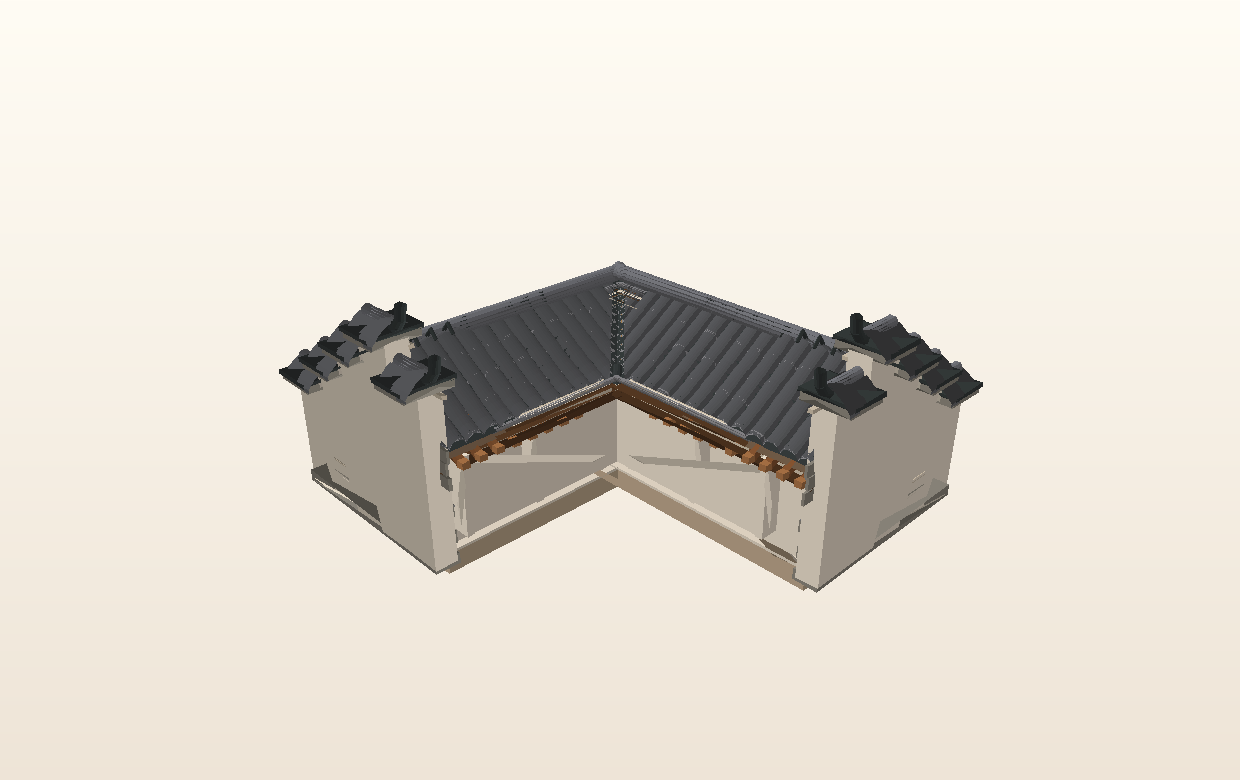
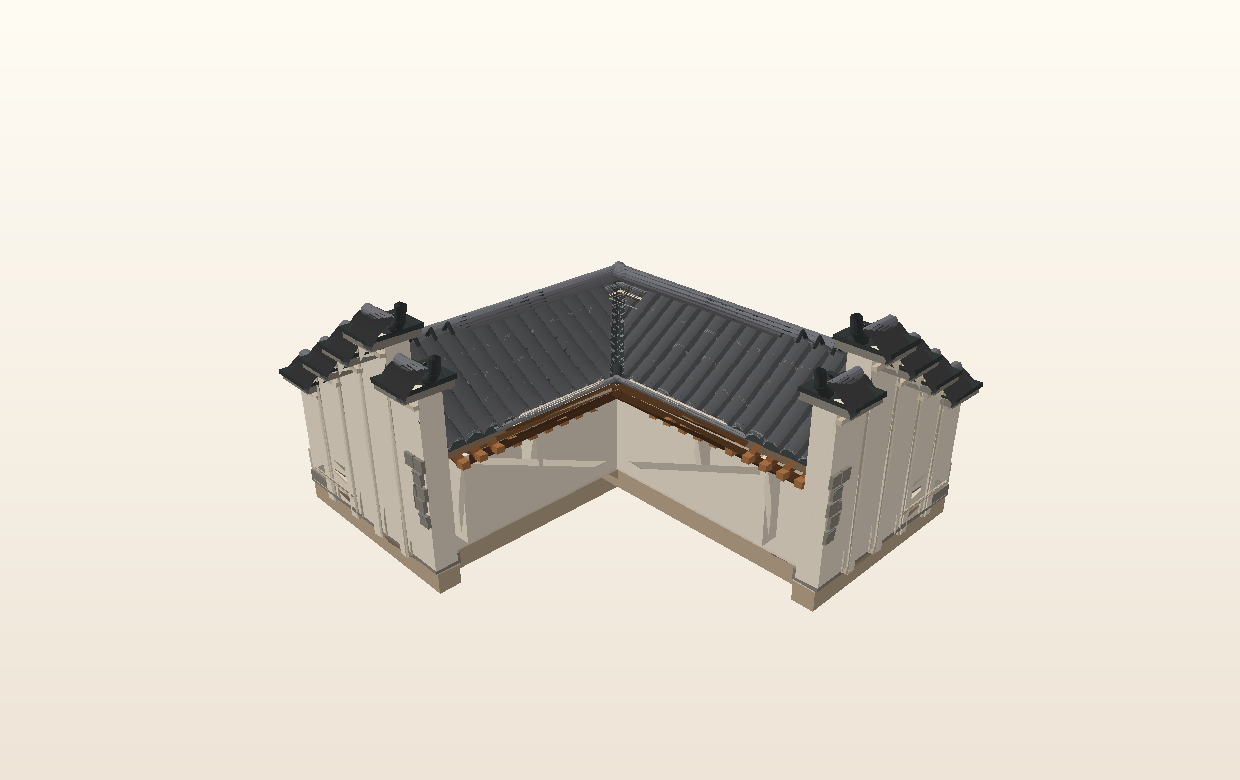
fix(ew-ux/g203): mirror exterior gables and align perimeter wall + full-bearing foundations

diff --git a/g1-m2/l-valley/src/l-valley.js b/g1-m2/l-valley/src/l-valley.js
@@ -16,6 +16,15 @@ export const L_VALLEY_CONTRACT = 'ew/ux/l-valley-v0.1';
 const ROOF_MAT = {under:'slateDark',slate:'slate',edge:'slateEdge',light:'slateLight',wood:'wood',woodDark:'woodDark'};
 const WALL=MODULES.find(m=>m.id==='MH-01');
 const EPS=1e-8;
+// G1-M1's stepped gable has asymmetric surface decoration at local +Z.
+// For either house end, local +Z MUST face away from the occupied room.
+export const GABLE_ASSEMBLY_CONTRACT='ew/ux/gable-facing-and-bearing-v0.3';
+const GABLE_WIDTH=3.6;
+const GABLE_DEPTH=.38;
+const GABLE_PARAMS=Object.freeze({width:GABLE_WIDTH,depth:GABLE_DEPTH,wallHeight:2.30,stepRise:.48,steps:4});
+const PERIMETER_WALL_TOP=1.63;
+const SUPPORT_PIER_TOP=1.57;
+const CORNER_PIER_TOP=1.67;
 // One architectural datum for slab finish and imported gable base seats.
 const FLOOR_SURFACE={centerY:.01,thickness:.03};
 const FINISHED_FLOOR_Y=FLOOR_SURFACE.centerY+FLOOR_SURFACE.thickness/2;
@@ -201,22 +210,50 @@ function addEaveConstruction(out,p){
  }
  return {segments:segments.map(e=>({...e,start:at(e.arm,e.a,e.side*p.halfSpan,0),end:at(e.arm,e.b,e.side*p.halfSpan,0)}))};
 }
-function remeshPart(part,fn,tag){const out=new Mesh(`${tag}/${part.id}`,part.material);for(let i=0;i<part.positions.length;i+=9)out.tri(fn(part.positions.slice(i,i+3)),fn(part.positions.slice(i+3,i+6)),fn(part.positions.slice(i+6,i+9)));return out;}
-function addGables(out,p){
- const params={width:3.6,depth:.38,wallHeight:2.30,stepRise:.48,steps:4};
- const g=buildModule(WALL,params); const depth=.38;
- // G1-M1 gables are independent modules with a local baseY (0.28 m).
- // Register that semantic wallSeat to the L-house's *finished floor* datum;
- // do not reinterpret module wallHeight, which would alter the accepted profile.
- const localSeatY=g.metadata.anchors.wallSeat.y;
- const seatOffsetY=FINISHED_FLOOR_Y-localSeatY;
- // Both gable inner planes coincide with their respective roof ends.
- for(const [arm,end] of [['main',p.mainLength],['wing',p.wingLength]]){
-  const transformed=g.parts.map(part=>remeshPart(part,q=>arm==='main'?[end+depth/2-q[2],q[1]+seatOffsetY,q[0]]:[q[0],q[1]+seatOffsetY,end+depth/2-q[2]],`gable-${arm}`));
-  out.parts.push(...transformed);
+function remeshPart(part,fn,tag,mirror=false){
+ const out=new Mesh(`${tag}/${part.id}`,part.material);
+ for(let i=0;i<part.positions.length;i+=9){
+  const a=fn(part.positions.slice(i,i+3)),b=fn(part.positions.slice(i+3,i+6)),c=fn(part.positions.slice(i+6,i+9));
+  // Reflections have negative determinant: swap winding to preserve outward normals.
+  out.tri(a,mirror?c:b,mirror?b:c);
  }
- return {wallDepth:depth,localSeatY,finishedFloorY:FINISHED_FLOOR_Y,seatOffsetY,
-  wallCapSpans:g.metadata.anchors.capSpans.map(span=>({...span,level:span.level+seatOffsetY}))};
+ return out;
+}
+/** Position one G1-M1 gable at a physical end-face of a RoofGroup.
+ * The roof terminal plane and gable INNER face coincide (at `end`).
+ * Local +Z carries the asymmetric exposed masonry, always facing the outside.
+ * `direction` is the outward signed direction on the selected world axis.
+ */
+export function buildGablePlacement(arm,end,direction=1){
+ if(arm!=='main'&&arm!=='wing')throw new RangeError('invalid_gable_axis');
+ if(direction!==1&&direction!==-1)throw new RangeError('invalid_gable_direction');
+ if(!Number.isFinite(end))throw new RangeError('invalid_gable_end');
+ const g=buildModule(WALL,GABLE_PARAMS),localSeatY=g.metadata.anchors.wallSeat.y;
+ const seatOffsetY=FINISHED_FLOOR_Y-localSeatY;
+ const center=end+direction*GABLE_DEPTH/2;
+ const map=q=>arm==='main'?[center+direction*q[2],q[1]+seatOffsetY,q[0]]:
+  [q[0],q[1]+seatOffsetY,center+direction*q[2]];
+ // The main-arm axis maps local X to world Z, reversing parity for +X.
+ // The wing axis maps local X to world X, reversing parity for -Z.
+ const mirror=arm==='main'?direction===1:direction===-1;
+ const label=direction===1?'positive':'negative';
+ const parts=g.parts.map(part=>remeshPart(part,map,`gable-${arm}-${label}`,mirror));
+ const outward=arm==='main'?[direction,0,0]:[0,0,direction];
+ const innerFace=end,outerFace=end+direction*GABLE_DEPTH;
+ return {parts,metadata:{arm,direction,outward,innerFace,outerFace,
+  floorY:FINISHED_FLOOR_Y,localSeatY,seatOffsetY,wallDepth:GABLE_DEPTH,
+  width:GABLE_WIDTH,mirroredTransform:mirror,
+  decorationLocalFace:'positiveZ',decoratedWorldFace:outerFace,
+  wallCapSpans:g.metadata.anchors.capSpans.map(span=>({...span,level:span.level+seatOffsetY}))}};
+}
+function addGables(out,p){
+ const main=buildGablePlacement('main',p.mainLength,1);
+ const wing=buildGablePlacement('wing',p.wingLength,1);
+ out.parts.push(...main.parts,...wing.parts);
+ return {wallDepth:GABLE_DEPTH,localSeatY:main.metadata.localSeatY,
+  finishedFloorY:FINISHED_FLOOR_Y,seatOffsetY:main.metadata.seatOffsetY,
+  contract:GABLE_ASSEMBLY_CONTRACT,
+  placements:[main.metadata,wing.metadata],wallCapSpans:main.metadata.wallCapSpans};
 }
 function addShell(out,p){
  const s=p.halfSpan;
@@ -230,25 +267,44 @@ function addShell(out,p){
  stone.box(0,-.18,(p.wingLength+s)/2,2*s,.35,p.wingLength-s);
  top.box((p.mainLength-s)/2,FLOOR_SURFACE.centerY,0,p.mainLength+s,FLOOR_SURFACE.thickness,2*s);
  top.box(0,FLOOR_SURFACE.centerY,(p.wingLength+s)/2,2*s,FLOOR_SURFACE.thickness,p.wingLength-s);
+ // The independent gables are OUTSIDE the roof termination planes. Extend the
+ // same-height continuous stone footing under their FULL wall thickness/width.
+ // Otherwise equal Y coordinates alone leave the terminal masonry unsupported.
+ for(const [arm,end] of [['main',p.mainLength],['wing',p.wingLength]]){
+  const feet=out.part('platform',`gable-${arm}-bearing-foundation`);
+  const finish=out.part('platformTop',`gable-${arm}-bearing-finished-floor`);
+  if(arm==='main'){
+   feet.box(end+GABLE_DEPTH/2,-.18,0,GABLE_DEPTH,.35,GABLE_WIDTH+.10);
+   finish.box(end+GABLE_DEPTH/2,FLOOR_SURFACE.centerY,0,GABLE_DEPTH,FLOOR_SURFACE.thickness,GABLE_WIDTH+.10);
+  }else{
+   feet.box(0,-.18,end+GABLE_DEPTH/2,GABLE_WIDTH+.10,.35,GABLE_DEPTH);
+   finish.box(0,FLOOR_SURFACE.centerY,end+GABLE_DEPTH/2,GABLE_WIDTH+.10,FLOOR_SURFACE.thickness,GABLE_DEPTH);
+  }
+ }
  const lines=[
   ['main',-1,-s,p.mainLength],['main',1,s,p.mainLength],
   ['wing',-1,-s,p.wingLength],['wing',1,s,p.wingLength]
  ];
  for(const [arm,side,a,b] of lines){
   const center=(a+b)/2,extent=b-a,dd=side*(s-.16);
-  const world=at(arm,center,dd,.89);
-  const sy=1.48;
+  const wallHeight=PERIMETER_WALL_TOP-FINISHED_FLOOR_Y;
+  const wallCenter=(PERIMETER_WALL_TOP+FINISHED_FLOOR_Y)/2;
+  const world=at(arm,center,dd,wallCenter);
   if(arm==='main'){
-   plaster.box(world[0],world[1],world[2],extent,sy,.30);
+   plaster.box(world[0],world[1],world[2],extent,wallHeight,.30);
    trim.box(world[0],1.60,world[2],extent,.075,.34);
   }else{
-   plaster.box(world[0],world[1],world[2],.30,sy,extent);
+   plaster.box(world[0],world[1],world[2],.30,wallHeight,extent);
    trim.box(world[0],1.60,world[2],.34,.075,extent);
   }
-  for(let t=a+.35;t<b-.15;t+=1.40){const c=at(arm,t,dd,.86);if(arm==='main')supports.box(c[0],c[1],c[2],.125,1.42,.35);else supports.box(c[0],c[1],c[2],.35,1.42,.125);}
+  const supportHeight=SUPPORT_PIER_TOP-FINISHED_FLOOR_Y;
+  const supportCenter=(SUPPORT_PIER_TOP+FINISHED_FLOOR_Y)/2;
+  for(let t=a+.35;t<b-.15;t+=1.40){const c=at(arm,t,dd,supportCenter);
+   if(arm==='main')supports.box(c[0],c[1],c[2],.125,supportHeight,.35);
+   else supports.box(c[0],c[1],c[2],.35,supportHeight,.125);}
  }
  // Inner corner's shared supporting pier beneath the rainwater outlet.
- supports.box(s-.20,.92,s-.20,.38,1.50,.38);
+ supports.box(s-.20,(CORNER_PIER_TOP+FINISHED_FLOOR_Y)/2,s-.20,.38,CORNER_PIER_TOP-FINISHED_FLOOR_Y,.38);
 }
 export function checkCornerContract(p,parts,flash){
  const issues=[],s=p.halfSpan,diag=diagonalSeam(p);
@@ -290,12 +346,39 @@ export function checkCornerContract(p,parts,flash){
  const floorTop=floor?.bounds().max[1];
  if(!Number.isFinite(floorTop)||Math.abs(floorTop-FINISHED_FLOOR_Y)>EPS)issues.push('floor_datum_mismatch');
  for(const arm of ['main','wing']){
-  const wall=parts.find(x=>x.id.includes(`gable-${arm}/MH-01/wall-body/`));
-  const socle=parts.find(x=>x.id.includes(`gable-${arm}/MH-01/stone-socle/`));
+  const wall=parts.find(x=>x.id.includes(`gable-${arm}-positive/MH-01/wall-body/`));
+  const socle=parts.find(x=>x.id.includes(`gable-${arm}-positive/MH-01/stone-socle/`));
   if(!wall||!socle){issues.push('missing_gable_seat');continue;}
   const base=wall.bounds().min[1],stoneBounds=socle.bounds();
   if(Math.abs(base-floorTop)>EPS)issues.push('gable_floor_datum_mismatch');
   if(stoneBounds.min[1]>floorTop+EPS||stoneBounds.max[1]<floorTop-EPS)issues.push('gable_socle_not_seated');
+  // Verify actual geometry, not the declared gable metadata. The outward
+  // decorative masonry must be outside the connecting roof-end plane.
+  const masonry=parts.find(x=>x.id.includes(`gable-${arm}-positive/MH-01/exposed-masonry/`));
+  const cornice=parts.find(x=>x.id.includes(`gable-${arm}-positive/MH-01/plaster-trim/`));
+  const feet=parts.find(x=>x.id.includes(`/gable-${arm}-bearing-foundation/`));
+  const finish=parts.find(x=>x.id.includes(`/gable-${arm}-bearing-finished-floor/`));
+  const worldAxis=arm==='main'?0:2, end=arm==='main'?p.mainLength:p.wingLength;
+  if(!masonry||!cornice||!feet||!finish){issues.push('missing_gable_exterior_or_footing');continue;}
+  const outerCoord=wall.bounds().max[worldAxis];
+  if(Math.abs(outerCoord-(end+GABLE_DEPTH))>EPS)issues.push('gable_outer_plane_mismatch');
+  if(masonry.bounds().min[worldAxis]<outerCoord-.015)issues.push('decorated_exterior_faces_inward');
+  if(cornice.bounds().min[worldAxis]<outerCoord-.015)issues.push('outer_cornice_faces_inward');
+  // Require the *entire* cross-section of this end-gable to sit on a real
+  // footing (not just matching height with an out-of-footprint floor).
+  const b=finish.bounds(),f=feet.bounds(),spanAxis=worldAxis===0?2:0;
+  if(b.min[spanAxis]>-GABLE_WIDTH/2-EPS || b.max[spanAxis]<GABLE_WIDTH/2+EPS ||
+     f.min[spanAxis]>-GABLE_WIDTH/2-EPS || f.max[spanAxis]<GABLE_WIDTH/2+EPS ||
+     b.min[worldAxis]>end+EPS||b.max[worldAxis]<end+GABLE_DEPTH-EPS ||
+     f.min[worldAxis]>end+EPS||f.max[worldAxis]<end+GABLE_DEPTH-EPS ||
+     Math.abs(b.max[1]-floorTop)>EPS || Math.abs(f.min[1]+.355)>EPS)
+   issues.push('gable_footing_missing_or_unlevel');
+ }
+ // House perimeter plaster and load-bearing piers must touch exactly the
+ // same finished-floor surface; the previous .125 m lower wall gap is invalid.
+ for(const id of ['L-perimeter-plaster-walls','structural-piers']){
+  const shell=parts.find(x=>x.id.includes(`/${id}/`));
+  if(!shell||Math.abs(shell.bounds().min[1]-floorTop)>EPS)issues.push('house_wall_or_pier_floor_gap');
  }
  const normalDelta=Math.abs(roofSlope(roofParams(p),.0001));
  if(normalDelta<=0)issues.push('invalid_valley_cross_slope');

diff --git a/g1-m2/l-valley/tests/l-valley.test.js b/g1-m2/l-valley/tests/l-valley.test.js
@@ -86,8 +86,8 @@ for(const settings of [DEFAULT,{mainLength:7.1,wingLength:4.6}]){
   assert.ok(sep(g.metadata.gables.finishedFloorY,finish));
   assert.ok(sep(g.metadata.gables.seatOffsetY,-.255));
   for(const arm of ['main','wing']){
-   const wall=g.parts.find(p=>p.id.includes(`gable-${arm}/MH-01/wall-body/`));
-   const stone=g.parts.find(p=>p.id.includes(`gable-${arm}/MH-01/stone-socle/`));
+   const wall=g.parts.find(p=>p.id.includes(`gable-${arm}-positive/MH-01/wall-body/`));
+   const stone=g.parts.find(p=>p.id.includes(`gable-${arm}-positive/MH-01/stone-socle/`));
    assert.ok(wall&&stone);
    assert.ok(sep(wall.bounds().min[1],finish),`${arm} wall floating over finished floor`);
    const b=stone.bounds();assert.ok(b.min[1]<=finish&&b.max[1]>=finish);
@@ -95,10 +95,129 @@ for(const settings of [DEFAULT,{mainLength:7.1,wingLength:4.6}]){
  });
 }
 test('contract independently detects gable vertical misregistration',()=>{
- const g=buildLValley(),wall=g.parts.find(p=>p.id.includes('gable-main/MH-01/wall-body/'));
+ const g=buildLValley(),wall=g.parts.find(p=>p.id.includes('gable-main-positive/MH-01/wall-body/'));
  assert.ok(wall);
  for(let i=1;i<wall.positions.length;i+=3)wall.positions[i]+=.20;
  const result=checkCornerContract(g.params,g.parts,{width:g.seams.flashingWidth,
    outlet:g.seams.drain,valleyPath:g.seams.valley.map(v=>[v[0],v[1]-.028,v[2]])});
  assert.ok(result.issues.includes('gable_floor_datum_mismatch'),result.issues.join(','));
+});
+
+// G203 v0.3 user findings: (1) visual gable base/platform gap above grade;
+// (2) asymmetric exposed gray-brick façade must face OUTWARD at both ends.
+import {buildGablePlacement,GABLE_ASSEMBLY_CONTRACT} from '../src/l-valley.js';
+const contractProof=g=>checkCornerContract(g.params,g.parts,{width:g.seams.flashingWidth,
+ outlet:g.seams.drain,valleyPath:g.seams.valley.map(v=>[v[0],v[1]-.028,v[2]])});
+const surfacePoints=part=>{
+ const a=part.positions,res=[];
+ for(let i=0;i<a.length;i+=3)res.push(a.slice(i,i+3).map(v=>v.toFixed(7)).join(','));
+ return res.sort();
+};
+for(const settings of [DEFAULT,{mainLength:7.1,wingLength:4.6}]){
+ const label=`${settings.mainLength}x${settings.wingLength}`;
+ test(`${label} both perimeter wall and all structural piers physically touch finished floor`,()=>{
+  const g=buildLValley(settings),floor=find(g,'L-floor-stone-surface').bounds().max[1];
+  for(const id of ['L-perimeter-plaster-walls','structural-piers']){
+   const part=find(g,id);assert.ok(part,id);assert.ok(sep(part.bounds().min[1],floor),id);
+  }
+  assert.equal(g.validation.ok,true,g.validation.issues.join(','));
+ });
+ test(`${label} full-width gable foundation supports the exterior leaf outside roof plane`,()=>{
+  const g=buildLValley(settings),d=g.metadata.gables.wallDepth;
+  for(const [arm,end] of [['main',g.params.mainLength],['wing',g.params.wingLength]]){
+   const stone=find(g,`gable-${arm}-bearing-foundation`),top=find(g,`gable-${arm}-bearing-finished-floor`);
+   assert.ok(stone&&top);assert.equal(stone.count,12);assert.equal(top.count,12);
+   const axis=arm==='main'?0:2,across=arm==='main'?2:0;
+   const body=g.parts.find(p=>p.id.includes(`gable-${arm}-positive/MH-01/wall-body/`));
+   const masonry=g.parts.find(p=>p.id.includes(`gable-${arm}-positive/MH-01/exposed-masonry/`));
+   assert.ok(body&&masonry);
+   assert.ok(sep(body.bounds().min[axis],end));
+   assert.ok(sep(body.bounds().max[axis],end+d));
+   assert.ok(sep(body.bounds().min[1],.025));
+   assert.ok(masonry.bounds().min[axis]>end+d-.015,'decorative brick must not be on the inner plane');
+   const b=top.bounds();assert.ok(b.min[across]<=-1.8&&b.max[across]>=1.8,'bearing width fully covers gable');
+  }
+  assert.deepEqual(contractProof(g).issues,[]);
+ });
+ test(`${label} contract rejects deliberately lifted perimeter wall, not just gable`,()=>{
+  const g=buildLValley(settings),wall=find(g,'L-perimeter-plaster-walls');
+  for(let i=1;i<wall.positions.length;i+=3)wall.positions[i]+=.125;
+  assert.ok(contractProof(g).issues.includes('house_wall_or_pier_floor_gap'));
+ });
+ test(`${label} contract rejects inward-shifted decorative brick masonry`,()=>{
+  const g=buildLValley(settings),brick=g.parts.find(x=>x.id.includes('gable-main-positive/MH-01/exposed-masonry/'));
+  for(let i=0;i<brick.positions.length;i+=3)brick.positions[i]-=.38;
+  assert.ok(contractProof(g).issues.includes('decorated_exterior_faces_inward'));
+ });
+ test(`${label} contract rejects missing physical end footing`,()=>{
+  const g=buildLValley(settings);const footing=find(g,'gable-main-bearing-finished-floor');
+  // Lifts only the bearing: it no longer seats on floor even though the gable's wallSeat matches.
+  for(let i=1;i<footing.positions.length;i+=3)footing.positions[i]+=.2;
+  assert.ok(contractProof(g).issues.includes('gable_footing_missing_or_unlevel'));
+ });
+}
+for(const axis of ['main','wing']){
+ test(`opposite ${axis} roof ends are exact mirrored masonry/gable placements (Y unaffected)`,()=>{
+  const positive=buildGablePlacement(axis,6,1),negative=buildGablePlacement(axis,-6,-1);
+  const k=axis==='main'?0:2;
+  assert.equal(positive.metadata.outward[k],1);assert.equal(negative.metadata.outward[k],-1);
+  assert.equal(positive.metadata.decoratedWorldFace,6+.38);
+  assert.equal(negative.metadata.decoratedWorldFace,-6-.38);
+  assert.equal(positive.parts.length,negative.parts.length);
+  for(let i=0;i<positive.parts.length;i++){
+   const pa=positive.parts[i],pb=negative.parts[i];assert.equal(pa.material,pb.material);
+   const mirrored=[];for(let j=0;j<pa.positions.length;j+=3){let q=pa.positions.slice(j,j+3);q[k]*=-1;mirrored.push(q.map(v=>v.toFixed(7)).join(','));}
+   assert.deepEqual(mirrored.sort(),surfacePoints(pb),`${axis} ${pa.id} differs after mirroring`);
+  }
+ });
+ test(`outward wall face and exposed masonry aligned at ${axis} +/- exterior sides`,()=>{
+  for(const dir of [-1,1]){
+   const g=buildGablePlacement(axis,dir*4,dir),k=axis==='main'?0:2;
+   const bricks=g.parts.find(x=>x.id.includes('exposed-masonry'));
+   const walls=g.parts.find(x=>x.id.includes('/wall-body/'));
+   assert.ok(bricks&&walls);
+   const outer=dir===1?walls.bounds().max[k]:walls.bounds().min[k];
+   const nearest=dir===1?bricks.bounds().min[k]:bricks.bounds().max[k];
+   assert.ok(dir*(nearest-outer)>-.015,`masonry should be outside for ${axis} ${dir}`);
+   assert.ok(sep(walls.bounds().min[1],.025));
+  }
+ });
+}
+test('v0.3 new architectural assembly contract is declared in model metadata',()=>{
+ const g=buildLValley();assert.equal(g.metadata.gables.contract,GABLE_ASSEMBLY_CONTRACT);
+ for(const m of g.metadata.gables.placements)assert.equal(m.decoratedWorldFace,m.outerFace);
+});
+
+// Golden first-26 parts are the entire owner-accepted roof+hip+valley+eave build
+// from v0.2; shell/gable corrections must never mutate them.
+for(const [settings,expected] of [
[2 lines of base64/hex data omitted]
+]){
+ test(`${settings.mainLength}x${settings.wingLength} accepted roof, valley, hip, and eave vertices+normals remain byte-identical to v0.2`,()=>{
+  const g=buildLValley(settings);
+  const data=g.parts.slice(0,26).map(p=>[p.id,p.material,p.positions,p.normals]);
+  const hash=createHash('sha256').update(JSON.stringify(data)).digest('hex');
+  assert.equal(hash,expected);
+ });
+}
+test('gable outer wall face normals follow the outward direction after reflection',()=>{
+ for(const arm of ['main','wing'])for(const direction of [-1,1]){
+  const g=buildGablePlacement(arm,direction*4,direction),body=g.parts.find(p=>p.id.includes('/wall-body/'));
+  const k=arm==='main'?0:2,outer=g.metadata.outerFace;
+  let count=0,inverted=0;
+  for(let i=0;i<body.positions.length;i+=3){
+   if(Math.abs(body.positions[i+k]-outer)>1e-8)continue;
+   const n=direction*body.normals[i+k];
+   if(n>.98)count++;
+   if(n<-.98)inverted++;
+  }
+  assert.ok(count>20,`${arm} ${direction}: no outward oriented face`);
+  assert.equal(inverted,0,`${arm} ${direction}: mirrored face winding inverted`);
+ }
+});
+test('outer wall and pier roof-side upper elevations preserved while bottom seats reach the same finished floor',()=>{
+ const g=buildLValley(),wall=find(g,'L-perimeter-plaster-walls'),piers=find(g,'structural-piers');
+ assert.ok(sep(wall.bounds().min[1],.025));assert.ok(sep(wall.bounds().max[1],1.63));
+ assert.ok(sep(piers.bounds().min[1],.025));assert.ok(sep(piers.bounds().max[1],1.67));
 });

diff --git a/g1-m2/l-valley/README.md b/g1-m2/l-valley/README.md
@@ -1,3 +1,33 @@
+# G203 v0.3 — End-gable handedness, datum and physical bearing correction
+
+**Status: code/tests complete; mobile visual review PENDING.** 2026-11-10. Owner previously accepted roof valley/drainage. v0.2 corrected the gable wall-seat Y only; it did not fix the adjacent house wall bottoms or foundation coverage. v0.3 addresses both issues and the newly reported inverted grey-brick exterior.
+
+## What was wrong
+
+1. The G1-M1 wall module is asymmetric: decorative grey masonry exists only on its local **+Z** surface. v0.2 mapped that surface to the *inner*, roof-facing world plane. Same module on opposite ends consequently presented the decorated face inside on one end. A mere `scale(-1)` would also invert triangle normals.
+2. A local `wallSeat=0.280 m` was correctly transformed to the finished-floor Y=0.025 m, but the L-house perimeter plaster and piers still ended at Y=0.150 m (gap 0.125 m above the floor).
+3. End gables occupy the world interval `[end,end+0.38 m]` outside the existing slab and are 3.6 m wide, while the regular roof slab is only 3.10 m across. Hence equal-height wall/floor datums **did not mean the wall was supported by the platform**.
+
+## Fix
+
+- Explicit `buildGablePlacement(arm,end,direction)` for main/wing and positive/negative world ends. Local +Z is the façade **exterior**, with translated/flipped world coordinates and triangle-winding correction for negative-determinant transforms. `GABLE_ASSEMBLY_CONTRACT=ew/ux/gable-facing-and-bearing-v0.3`.
+- Preserve all accepted roof/eave geometry. Lower only the exterior walls and piers to the finished floor, keeping their upper elevations 1.63 / 1.57 / 1.67 m unchanged.
+- Add two independent complete `stone + finished surface` terminal gable foundations, each Y=[-0.355,0.025] m, spanning the wall's full width and 0.38 m depth. This fixes structural support in X/Z as well as Y; no ground-plane trick is used.
+- Explicit checks reject inward masonry, mis-seated gable / house perimeter, missing or floating per-gable foundations, and incorrect exterior face plane.
+
+## Tests and invariance
+
+- `node --test tests/l-valley.test.js`: **38/38 passing** (was 19 in v0.2).
+- Exact original owner-accepted roof/hip/valley/eave vertex AND normal SHA-256 snapshots retained for standard and extended L: `e75e94ca...` and `55550cb3...`. No changes to those 26 meshes.
+- Positive/negative main- and wing-axis gables produce reflected vertex multisets and outward-facing exterior normals, never inward normals.
+- CPU triangle-mesh stills (overall + close-to-grade) are **previews**, not GPU screenshots. The owner must still approve actual mobile Safari visualization of the corrected base and outward-facing decorative brickwork.
+- Work is isolated under `g1-m2/l-valley/`. No G1-M1, Stage 01, WP1.1, Authority or other research packages are changed.
+
+**Review URL:** https://happygq.github.io/ew-ux-atlas/g1-m2/l-valley/?v=03 — select **墙脚近景** and inspect each end wall.
+
+
+---
+
 # EW-UX G1-M2 · Stage 02 (UX-G203): L-shaped roof valley
 
 **Status: roof valley and drainage owner-accepted; gable floor-datum correction v0.2 pending visual recheck.**

diff --git a/g1-m2/l-valley/docs/G203-v0.3-Handedness-and-Foundation-Contract.md b/g1-m2/l-valley/docs/G203-v0.3-Handedness-and-Foundation-Contract.md
@@ -1,0 +1,27 @@
+# G203 v0.3 — End-gable handedness, datum and physical bearing correction
+
+**Status: code/tests complete; mobile visual review PENDING.** 2026-11-10. Owner previously accepted roof valley/drainage. v0.2 corrected the gable wall-seat Y only; it did not fix the adjacent house wall bottoms or foundation coverage. v0.3 addresses both issues and the newly reported inverted grey-brick exterior.
+
+## What was wrong
+
+1. The G1-M1 wall module is asymmetric: decorative grey masonry exists only on its local **+Z** surface. v0.2 mapped that surface to the *inner*, roof-facing world plane. Same module on opposite ends consequently presented the decorated face inside on one end. A mere `scale(-1)` would also invert triangle normals.
+2. A local `wallSeat=0.280 m` was correctly transformed to the finished-floor Y=0.025 m, but the L-house perimeter plaster and piers still ended at Y=0.150 m (gap 0.125 m above the floor).
+3. End gables occupy the world interval `[end,end+0.38 m]` outside the existing slab and are 3.6 m wide, while the regular roof slab is only 3.10 m across. Hence equal-height wall/floor datums **did not mean the wall was supported by the platform**.
+
+## Fix
+
+- Explicit `buildGablePlacement(arm,end,direction)` for main/wing and positive/negative world ends. Local +Z is the façade **exterior**, with translated/flipped world coordinates and triangle-winding correction for negative-determinant transforms. `GABLE_ASSEMBLY_CONTRACT=ew/ux/gable-facing-and-bearing-v0.3`.
+- Preserve all accepted roof/eave geometry. Lower only the exterior walls and piers to the finished floor, keeping their upper elevations 1.63 / 1.57 / 1.67 m unchanged.
+- Add two independent complete `stone + finished surface` terminal gable foundations, each Y=[-0.355,0.025] m, spanning the wall's full width and 0.38 m depth. This fixes structural support in X/Z as well as Y; no ground-plane trick is used.
+- Explicit checks reject inward masonry, mis-seated gable / house perimeter, missing or floating per-gable foundations, and incorrect exterior face plane.
+
+## Tests and invariance
+
+- `node --test tests/l-valley.test.js`: **38/38 passing** (was 19 in v0.2).
+- Exact original owner-accepted roof/hip/valley/eave vertex AND normal SHA-256 snapshots retained for standard and extended L: `e75e94ca...` and `55550cb3...`. No changes to those 26 meshes.
+- Positive/negative main- and wing-axis gables produce reflected vertex multisets and outward-facing exterior normals, never inward normals.
+- CPU triangle-mesh stills (overall + close-to-grade) are **previews**, not GPU screenshots. The owner must still approve actual mobile Safari visualization of the corrected base and outward-facing decorative brickwork.
+- Work is isolated under `g1-m2/l-valley/`. No G1-M1, Stage 01, WP1.1, Authority or other research packages are changed.
+
+**Review URL:** https://happygq.github.io/ew-ux-atlas/g1-m2/l-valley/?v=03 — select **墙脚近景** and inspect each end wall.
+
